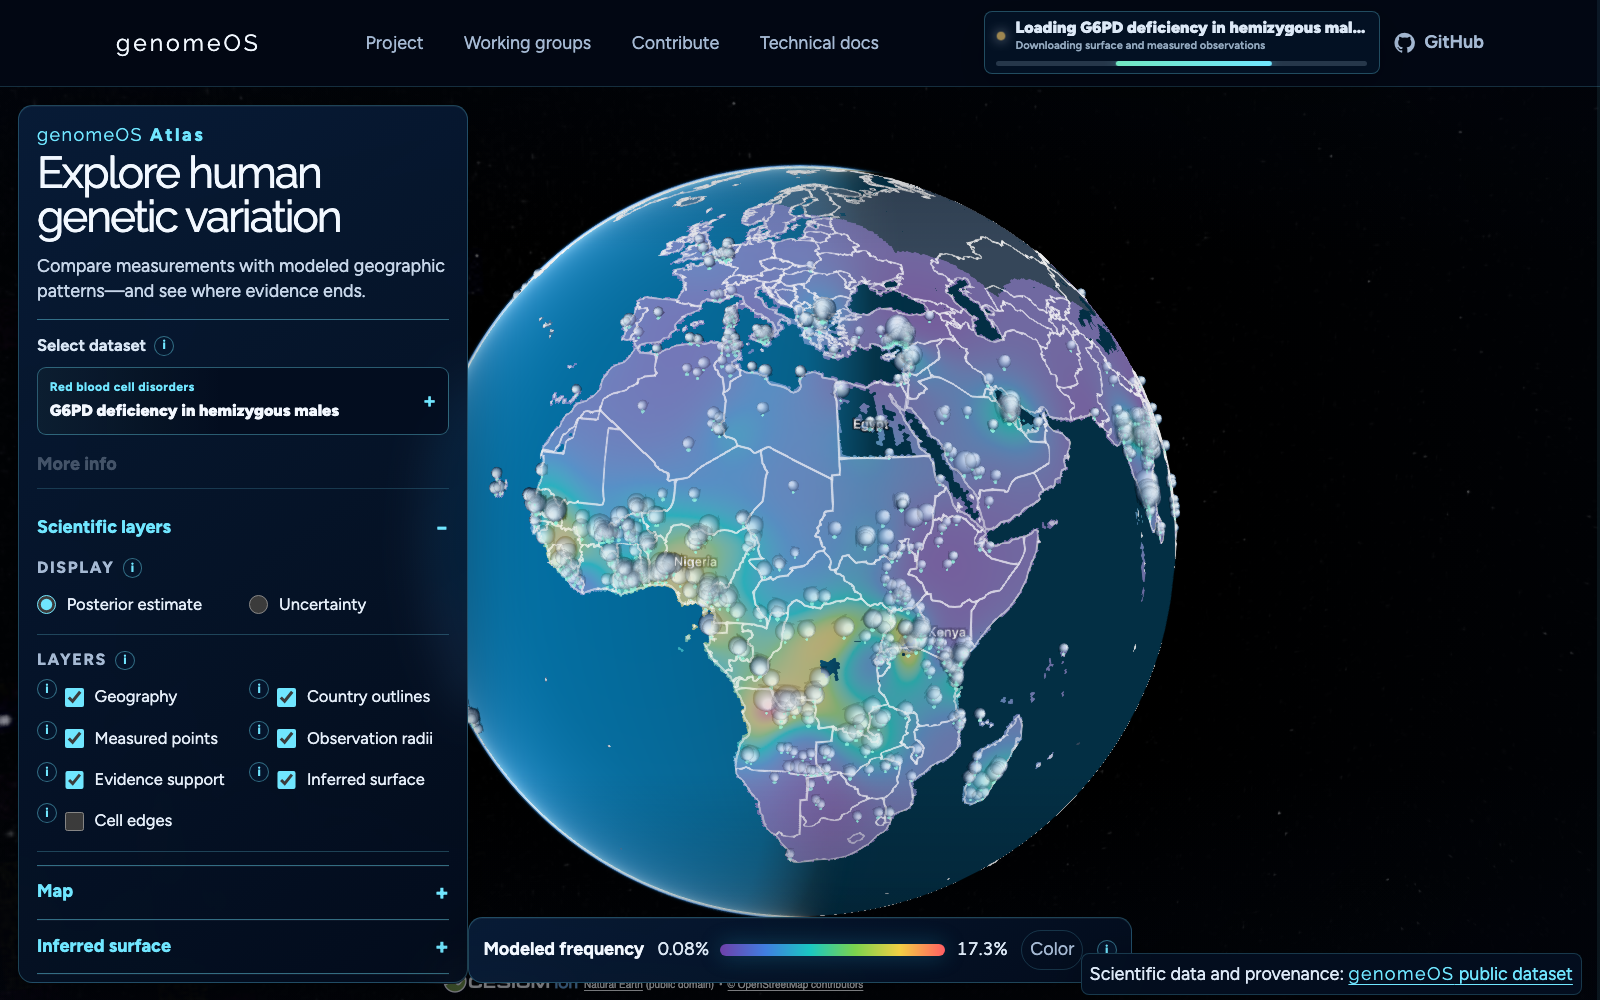
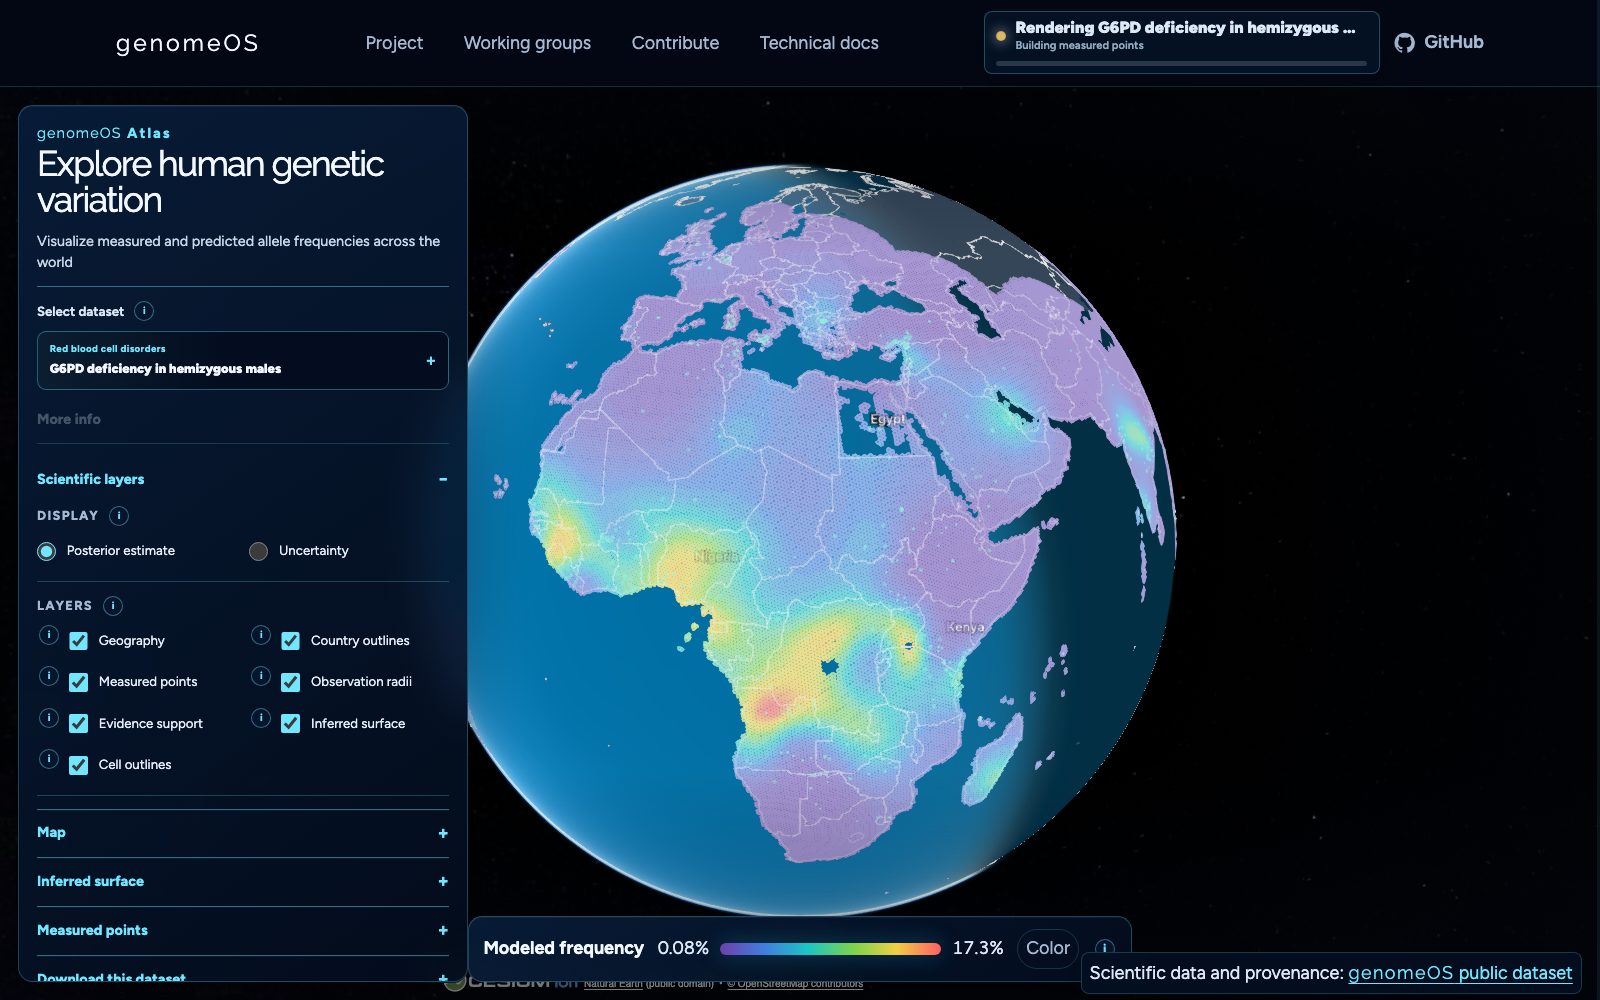
test: delay the binary render tier in the progress capture

diff --git a/website/tests/atlas-e2e-wiring.test.ts b/website/tests/atlas-e2e-wiring.test.ts
@@ -64,4 +64,18 @@ describe('Atlas e2e build wiring', () => {
     expect(config).toContain("include: ['tests/**/*.test.ts']");
     expect(config).not.toContain('exclude');
   });
+
+  it('delays the progress capture through the catalog-keyed helper', () => {
+    const script = readFileSync(
+      path.join(websiteRoot, 'scripts/capture-atlas-progress.mjs'),
+      'utf8',
+    );
+    expect(script).toContain(
+      "import { delayArtifactTier } from '../tests/atlas-browser-fixture.ts';",
+    );
+    expect(script).toContain(
+      "await delayArtifactTier(page, 'g6pd-deficiency', 'render', 5_000, {",
+    );
+    expect(script).not.toMatch(/\.surface\.json/);
+  });
 });
